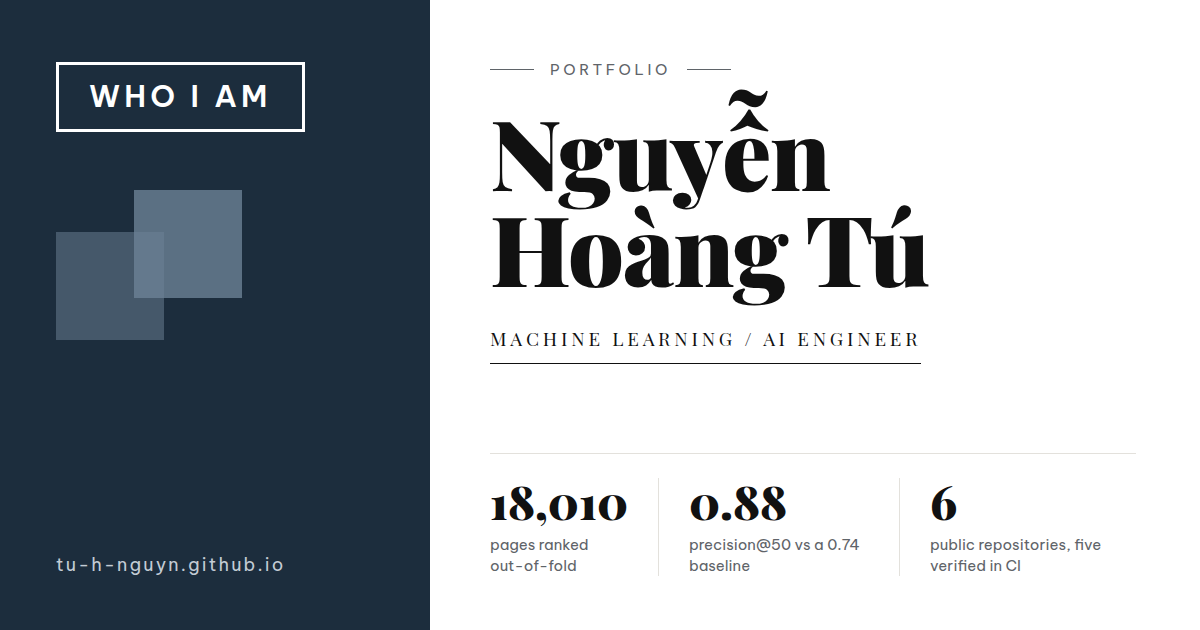
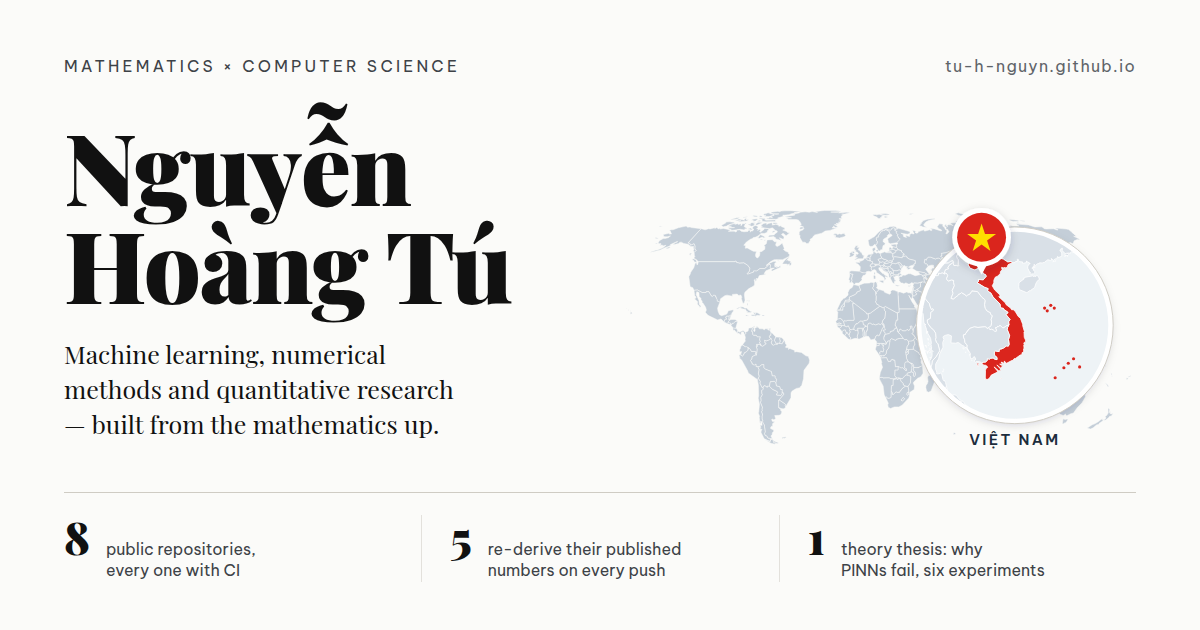
Redraw the share card: portfolio-wide facts and a map of Viet Nam
The card still said "Machine Learning / AI Engineer" and quoted the
ranking metrics. It now carries the site's positioning, three facts
about the whole body of work, and a world map with Viet Nam magnified
under a lens with the flag, drawn from Natural Earth outlines
(public domain, via world-atlas, ISC; an 87 KB extract vendored in
work/portfolio/og-map/). Hoang Sa and Truong Sa are marked as
Vietnamese maps show them.

Claude-Session: https://claude.ai/code/session_01Bir23MNRfpLHK8RkrXDYFN

diff --git a/work/scripts/make_portfolio_og.py b/work/scripts/make_portfolio_og.py
@@ -2,11 +2,18 @@
 """Render docs/portfolio/og.png — the 1200x630 social-share card for the portfolio.
 
 This card is what LinkedIn and Facebook show when the portfolio link is posted, so
-it is the first thing most readers see. It used to be a hand-made file with no
-source, which meant it silently went stale as the page changed. Now it is
-generated, like the paper's card next to it, and drawn in the page's own system:
-the navy panel with the "Who I am" box and the two squares, the name in Playfair
-Display, the label type in Be Vietnam Pro.
+it is the first thing most readers see. It is generated, like the paper's card next
+to it, and drawn in the site's own system: paper ground, ink and navy, the name in
+Playfair Display, three facts about the whole body of work, and a world map with
+Việt Nam picked out under a magnifier.
+
+The map is drawn here from Natural Earth country outlines (public domain), vendored
+as a small extract in work/portfolio/og-map/countries.json: the world at 1:110m, and
+the region around Việt Nam at 1:50m for the magnified view. Hoàng Sa and Trường Sa
+are marked as Vietnamese, as Vietnamese maps show them. To refresh the extract from
+the world-atlas package (npm, which packages Natural Earth as TopoJSON):
+
+    python3 work/scripts/make_portfolio_og.py --vendor-map path/to/world-atlas/package
 
 The fonts are vendored in work/portfolio/fonts/ and embedded into the card, so it
 renders the same with no network — and the script refuses to write the PNG if they
@@ -14,7 +21,10 @@ did not load, rather than quietly shipping a card set in a fallback face.
 
     pip install playwright && python3 work/scripts/make_portfolio_og.py
 """
+import argparse
 import base64
+import json
+import math
 import pathlib
 import re
 import shutil
@@ -23,60 +33,262 @@ import sys
 ROOT = pathlib.Path(__file__).resolve().parents[2]
 OUT = ROOT / "docs" / "portfolio" / "og.png"
 FONTS = ROOT / "work" / "portfolio" / "fonts"
+MAP = ROOT / "work" / "portfolio" / "og-map" / "countries.json"
+
+# The magnified view: everything inside this box, at 1:50m.
+REGION = (96.0, 3.0, 121.0, 27.0)          # lon0, lat0, lon1, lat1 — the lens's field of view
+LAND, LAND_LENS, SEA_LENS, VN_RED, VN_STAR = "#c4ced8", "#d9e0e7", "#eef3f6", "#da251d", "#ffde00"
 
 CARD = """
 <style>
   {fonts}
   *{{box-sizing:border-box; margin:0; padding:0}}
-  body{{width:1200px; height:630px; display:grid; grid-template-columns:430px 1fr;
-       font-family:'Be Vietnam Pro', sans-serif; color:#111; background:#fff;
+  body{{width:1200px; height:630px; padding:56px 64px 48px; display:flex; flex-direction:column;
+       font-family:'Be Vietnam Pro', sans-serif; color:#111; background:#fbfbf9;
        -webkit-font-smoothing:antialiased}}
-
-  .panel{{background:#1c2d3d; color:#fff; padding:62px 56px 54px;
-         display:flex; flex-direction:column}}
-  .who{{align-self:flex-start; border:3px solid #fff; padding:15px 30px 16px;
-       font-weight:600; font-size:30px; letter-spacing:.14em; text-transform:uppercase;
-       line-height:1.1}}
-  .squares{{position:relative; width:190px; height:150px; margin-top:58px}}
-  .squares i{{position:absolute; width:108px; height:108px; background:#6d8397}}
-  .squares i:first-child{{left:0; top:42px; opacity:.5}}
-  .squares i:last-child{{left:78px; top:0; opacity:.78}}
-  .url{{margin-top:auto; font-size:18px; letter-spacing:.12em; color:#c3ccd5}}
-
-  .main{{padding:60px 64px 54px 60px; display:flex; flex-direction:column}}
-  .eyebrow{{display:flex; align-items:center; gap:16px; font-size:15px;
-           letter-spacing:.24em; text-transform:uppercase; color:#5f6469}}
-  .eyebrow::before, .eyebrow::after{{content:""; width:44px; height:1px; background:currentColor}}
-  h1{{font-family:'Playfair Display', serif; font-weight:900; font-size:98px;
-     line-height:.98; letter-spacing:-.015em; margin-top:24px}}
-  .role{{align-self:flex-start; margin-top:30px; padding-bottom:12px;
-        border-bottom:1px solid #111;
-        font-family:'Playfair Display', serif; font-weight:400; font-size:19px;
-        letter-spacing:.2em; text-transform:uppercase}}
-
-  .stats{{margin-top:auto; display:grid; grid-template-columns:repeat(3, auto);
-         justify-content:start; border-top:1px solid #e3e1dc; padding-top:24px}}
-  .stat{{padding:0 30px; border-left:1px solid #e3e1dc}}
+  .top{{display:flex; justify-content:space-between; align-items:center;
+        font-size:16px; letter-spacing:.2em; text-transform:uppercase; color:#3d4247}}
+  .top .url{{letter-spacing:.08em; text-transform:none; color:#5f6469}}
+  .mid{{display:grid; grid-template-columns:500px 1fr; gap:24px; align-items:center; margin-top:26px}}
+  h1{{font-family:'Playfair Display', serif; font-weight:900; font-size:100px;
+     line-height:.98; letter-spacing:-.015em}}
+  .line{{font-family:'Playfair Display', serif; font-weight:400; font-size:25px; line-height:1.4;
+        color:#111; margin-top:24px; max-width:480px; text-wrap:balance}}
+  .map svg{{display:block; width:100%; height:auto}}
+  .stats{{margin-top:auto; display:grid; grid-template-columns:repeat(3, 1fr);
+         border-top:1px solid #cfccc4; padding-top:22px}}
+  .stat{{padding:0 28px; border-left:1px solid #e3e1dc; display:flex; gap:16px; align-items:baseline}}
   .stat:first-child{{padding-left:0; border-left:0}}
-  .n{{font-family:'Playfair Display', serif; font-weight:900; font-size:46px; line-height:1}}
-  .l{{font-size:15px; line-height:1.4; color:#5f6469; margin-top:10px; max-width:180px}}
+  .n{{font-family:'Playfair Display', serif; font-weight:900; font-size:44px; line-height:1}}
+  .l{{font-size:16px; line-height:1.35; color:#3d4247}}
 </style>
-<div class="panel">
-  <p class="who">Who I am</p>
-  <div class="squares"><i></i><i></i></div>
-  <p class="url">tu-h-nguyn.github.io</p>
-</div>
-<div class="main">
-  <p class="eyebrow">Portfolio</p>
-  <h1>Nguy&#7877;n<br>Ho&agrave;ng T&uacute;</h1>
-  <p class="role">Machine Learning / AI Engineer</p>
-  <div class="stats">
-    <div class="stat"><div class="n">18,010</div><div class="l">pages ranked<br>out-of-fold</div></div>
-    <div class="stat"><div class="n">0.88</div><div class="l">precision@50 vs a 0.74 baseline</div></div>
-    <div class="stat"><div class="n">6</div><div class="l">public repositories, five verified in CI</div></div>
+<div class="top"><span>Mathematics &times; Computer Science</span><span class="url">tu-h-nguyn.github.io</span></div>
+<div class="mid">
+  <div>
+    <h1>Nguy&#7877;n<br>Ho&agrave;ng T&uacute;</h1>
+    <p class="line">Machine learning, numerical methods and quantitative research &mdash; built from the mathematics up.</p>
   </div>
+  <div class="map">{map}</div>
+</div>
+<div class="stats">
+  <div class="stat"><div class="n">8</div><div class="l">public repositories,<br>every one with CI</div></div>
+  <div class="stat"><div class="n">5</div><div class="l">re-derive their published<br>numbers on every push</div></div>
+  <div class="stat"><div class="n">1</div><div class="l">theory thesis: why<br>PINNs fail, six experiments</div></div>
 </div>
 """
+
+
+# ── the map ──────────────────────────────────────────────────────────────────
+
+def topo_countries(path):
+    """[(name, [[ring, ...], ...])] from a world-atlas TopoJSON file, rings as (lon, lat)."""
+    t = json.loads(pathlib.Path(path).read_text())
+    (sx, sy), (tx, ty) = t["transform"]["scale"], t["transform"]["translate"]
+    arcs = []
+    for arc in t["arcs"]:
+        x = y = 0
+        pts = []
+        for dx, dy in arc:
+            x += dx
+            y += dy
+            pts.append((x * sx + tx, y * sy + ty))
+        arcs.append(pts)
+
+    def ring(idx):
+        out = []
+        for i in idx:
+            a = arcs[i] if i >= 0 else arcs[~i][::-1]
+            out.extend(a if not out else a[1:])
+        return out
+
+    out = []
+    for g in t["objects"]["countries"]["geometries"]:
+        if g["type"] == "Polygon":
+            polys = [[ring(r) for r in g["arcs"]]]
+        elif g["type"] == "MultiPolygon":
+            polys = [[ring(r) for r in p] for p in g["arcs"]]
+        else:
+            continue
+        out.append((g["properties"]["name"], polys))
+    return out
+
+
+def clip(ring, box):
+    """Sutherland–Hodgman: a ring clipped to an axis-aligned lon/lat box."""
+    x0, y0, x1, y1 = box
+    edges = [(lambda p: p[0] >= x0, lambda a, b: (x0, a[1] + (b[1] - a[1]) * (x0 - a[0]) / (b[0] - a[0]))),
+             (lambda p: p[0] <= x1, lambda a, b: (x1, a[1] + (b[1] - a[1]) * (x1 - a[0]) / (b[0] - a[0]))),
+             (lambda p: p[1] >= y0, lambda a, b: (a[0] + (b[0] - a[0]) * (y0 - a[1]) / (b[1] - a[1]), y0)),
+             (lambda p: p[1] <= y1, lambda a, b: (a[0] + (b[0] - a[0]) * (y1 - a[1]) / (b[1] - a[1]), y1))]
+    pts = ring
+    for inside, cross in edges:
+        if not pts:
+            break
+        src, pts = pts, []
+        for i, cur in enumerate(src):
+            prev = src[i - 1]
+            if inside(cur):
+                if not inside(prev):
+                    pts.append(cross(prev, cur))
+                pts.append(cur)
+            elif inside(prev):
+                pts.append(cross(prev, cur))
+    return pts
+
+
+def simplify(ring, tol):
+    """Douglas–Peucker: drop points that move the outline by less than tol degrees."""
+    if len(ring) < 5:
+        return ring
+    keep = [False] * len(ring)
+    keep[0] = keep[-1] = True
+    stack = [(0, len(ring) - 1)]
+    while stack:
+        i, j = stack.pop()
+        (x1, y1), (x2, y2) = ring[i], ring[j]
+        dx, dy = x2 - x1, y2 - y1
+        norm = math.hypot(dx, dy) or 1e-12
+        best, idx = 0.0, None
+        for k in range(i + 1, j):
+            x, y = ring[k]
+            d = abs(dy * (x - x1) - dx * (y - y1)) / norm if (dx or dy) else math.hypot(x - x1, y - y1)
+            if d > best:
+                best, idx = d, k
+        if idx is not None and best > tol:
+            keep[idx] = True
+            stack += [(i, idx), (idx, j)]
+    return [p for p, k in zip(ring, keep) if k]
+
+
+def vendor_map(src):
+    """Write the compact extract the card is drawn from."""
+    src = pathlib.Path(src)
+    # Tolerances are about half a pixel at the scale each part is drawn: ~1.8 px per
+    # degree for the world, ~9 px per degree inside the lens.
+    rnd = lambda ring, n: [[round(x, n), round(y, n)] for x, y in ring]
+    world = []
+    for name, polys in topo_countries(src / "countries-110m.json"):
+        if name == "Antarctica":
+            continue
+        rings = [[rnd(simplify(r, 0.25), 1) for r in poly] for poly in polys]
+        rings = [[r for r in poly if len(r) > 3] for poly in rings]
+        world.append([name, [poly for poly in rings if poly]])
+    region = []
+    for name, polys in topo_countries(src / "countries-50m.json"):
+        rings = [rnd(simplify(c, 0.04), 2) for poly in polys for c in [clip(poly[0], REGION)] if len(c) > 2]
+        rings = [r for r in rings if len(r) > 3]
+        if rings:
+            region.append([name, rings])
+    MAP.parent.mkdir(parents=True, exist_ok=True)
+    MAP.write_text(json.dumps({
+        "_source": "Natural Earth admin-0 countries (public domain), via world-atlas 2.0.2 "
+                   "(npm, ISC). world: 1:110m without Antarctica, simplified to 0.25 degree; region: "
+                   f"1:50m clipped to lon/lat box {list(REGION)}, simplified to 0.04 degree. "
+                   "Regenerate: make_portfolio_og.py --vendor-map <world-atlas package dir>.",
+        "world": world, "region": region}, separators=(",", ":")), encoding="utf-8")
+    print(f"{MAP.relative_to(ROOT)}  {MAP.stat().st_size // 1024} KB, "
+          f"{len(world)} countries + {len(region)} in the magnified region")
+
+
+def natural_earth(lon, lat):
+    """The Natural Earth projection (Šavrič et al.), in radians-scaled units."""
+    l, p = math.radians(lon), math.radians(lat)
+    p2 = p * p
+    p4 = p2 * p2
+    x = l * (0.8707 - 0.131979 * p2 + p4 * (-0.013791 + p4 * (0.003971 * p2 - 0.001529 * p4)))
+    y = p * (1.007226 + p2 * (0.015085 + p4 * (-0.044475 + 0.028874 * p2 - 0.005916 * p4)))
+    return x, y
+
+
+def unwrap(ring):
+    """A ring that crosses the 180th meridian (Chukotka, Fiji) would draw a line
+    across the whole map; fold its far side onto the meridian instead."""
+    if not any(abs(a[0] - b[0]) > 180 for a, b in zip(ring, ring[1:])):
+        return ring
+    east = sum(1 for x, _ in ring if x > 0) >= len(ring) / 2
+    return [(min(x + 360, 180) if east and x < 0 else max(x - 360, -180) if not east and x > 0 else x, y)
+            for x, y in ring]
+
+
+def path(rings, proj):
+    d = []
+    for r in map(unwrap, rings):
+        pts = [proj(x, y) for x, y in r]
+        d.append("M" + "L".join(f"{x:.1f},{y:.1f}" for x, y in pts) + "Z")
+    return "".join(d)
+
+
+def star(cx, cy, r):
+    pts = []
+    for k in range(10):
+        a = -math.pi / 2 + k * math.pi / 5
+        rr = r if k % 2 == 0 else r * 0.382
+        pts.append(f"{cx + rr * math.cos(a):.1f},{cy + rr * math.sin(a):.1f}")
+    return "M" + "L".join(pts) + "Z"
+
+
+def map_svg():
+    data = json.loads(MAP.read_text(encoding="utf-8"))
+    W, H = 560, 360
+    # world: Natural Earth projection scaled to the width, Antarctica left out
+    xmax = natural_earth(180, 0)[0]
+    ytop, ybot = natural_earth(0, 84)[1], natural_earth(0, -57)[1]
+    k = (W - 4) / (2 * xmax)
+    oy = H - 8 - (ytop - ybot) * k
+
+    def world(lon, lat):
+        x, y = natural_earth(lon, lat)
+        return 2 + (x + xmax) * k, oy + (ytop - y) * k
+
+    parts = [f'<svg viewBox="0 0 {W} {H}" xmlns="http://www.w3.org/2000/svg" role="img" '
+             f'aria-label="World map with Việt Nam highlighted and magnified">',
+             '<defs><filter id="sh" x="-20%" y="-20%" width="140%" height="140%">'
+             '<feDropShadow dx="0" dy="3" stdDeviation="5" flood-color="#1c2d3d" flood-opacity=".18"/></filter>'
+             '<clipPath id="lens"><circle cx="0" cy="0" r="1"/></clipPath></defs>']
+    for name, polys in data["world"]:
+        fill = VN_RED if name == "Vietnam" else LAND
+        d = "".join(path(poly, world) for poly in polys)
+        parts.append(f'<path d="{d}" fill="{fill}" stroke="#fbfbf9" stroke-width=".5" fill-rule="evenodd"/>')
+
+    # the magnifier: centred over Việt Nam itself, as a loupe laid on the map
+    vx, vy = world(106.3, 16.0)
+    R = 98
+    cx, cy = min(vx - 6, W - R - 6), max(vy + 6, R + 44)
+    # inside the lens: the region at 1:50m, equirectangular about its centre
+    lon_c, lat_c = 108.2, 14.6
+    s = R / 10.6                                   # pixels per degree of latitude
+    cosl = math.cos(math.radians(lat_c))
+
+    def local(lon, lat):
+        return cx + (lon - lon_c) * s * cosl, cy - (lat - lat_c) * s
+
+    parts.append(f'<g filter="url(#sh)"><circle cx="{cx:.1f}" cy="{cy:.1f}" r="{R}" fill="{SEA_LENS}"/></g>')
+    parts.append(f'<clipPath id="lc"><circle cx="{cx:.1f}" cy="{cy:.1f}" r="{R - 1}"/></clipPath><g clip-path="url(#lc)">')
+    for name, rings in data["region"]:
+        fill = VN_RED if name == "Vietnam" else LAND_LENS
+        parts.append(f'<path d="{path(rings, local)}" fill="{fill}" stroke="#ffffff" stroke-width=".8" stroke-linejoin="round"/>')
+    # Hoàng Sa and Trường Sa, as Vietnamese maps show them
+    for lon, lat in [(111.6, 16.5), (112.3, 16.8), (111.9, 16.2), (112.7, 16.5),
+                     (114.3, 10.4), (113.8, 9.9), (114.9, 10.9), (112.8, 8.8), (115.6, 10.0)]:
+        x, y = local(lon, lat)
+        parts.append(f'<circle cx="{x:.1f}" cy="{y:.1f}" r="1.6" fill="{VN_RED}"/>')
+    parts.append("</g>")
+    parts.append(f'<circle cx="{cx:.1f}" cy="{cy:.1f}" r="{R}" fill="none" stroke="#ffffff" stroke-width="5"/>')
+    parts.append(f'<circle cx="{cx:.1f}" cy="{cy:.1f}" r="{R + 2.5}" fill="none" stroke="#cfccc4" stroke-width="1"/>')
+
+    # the pin: the flag in a white ring, pointing into the lens
+    px, py, pr = cx - 34, cy - R + 8, 25
+    parts.append(f'<g filter="url(#sh)"><path d="M{px - 9:.1f},{py + pr - 3:.1f}L{px:.1f},{py + pr + 13:.1f}'
+                 f'L{px + 9:.1f},{py + pr - 3:.1f}Z" fill="#ffffff"/>'
+                 f'<circle cx="{px:.1f}" cy="{py:.1f}" r="{pr + 5}" fill="#ffffff"/></g>')
+    parts.append(f'<circle cx="{px:.1f}" cy="{py:.1f}" r="{pr}" fill="{VN_RED}"/>')
+    parts.append(f'<path d="{star(px, py + 1.5, pr * 0.62)}" fill="{VN_STAR}"/>')
+
+    # the caption, under the lens
+    parts.append(f'<text x="{cx:.1f}" y="{cy + R + 24:.1f}" text-anchor="middle" font-family="Be Vietnam Pro" '
+                 f'font-weight="600" font-size="15" letter-spacing="2.4" fill="#1c2d3d">VIỆT NAM</text>')
+    parts.append("</svg>")
+    return "".join(parts)
 
 
 def font_css():
@@ -100,12 +312,18 @@ def chromium():
 
 
 def main():
+    ap = argparse.ArgumentParser()
+    ap.add_argument("--vendor-map", metavar="DIR", help="refresh the map extract from a world-atlas package directory")
+    args = ap.parse_args()
+    if args.vendor_map:
+        vendor_map(args.vendor_map)
+
     try:
         from playwright.sync_api import sync_playwright
     except ImportError:
         sys.exit("playwright is not installed — pip install playwright")
 
-    html = CARD.format(fonts=font_css())
+    html = CARD.format(fonts=font_css(), map=map_svg())
 
     with sync_playwright() as pw:
         exe = chromium()
@@ -118,10 +336,10 @@ def main():
         # A share card in a fallback face is worse than no new card at all. Check the
         # exact glyphs that matter — the Vietnamese marks in the name included.
         missing = page.evaluate("""() => [
-            ["900 98px 'Playfair Display'", "Nguyễn Hoàng Tú 18,010 0.88"],
-            ["400 19px 'Playfair Display'", "MACHINE LEARNING / AI ENGINEER"],
-            ["400 15px 'Be Vietnam Pro'", "pages ranked out-of-fold tu-h-nguyn.github.io"],
-            ["600 30px 'Be Vietnam Pro'", "WHO I AM"],
+            ["900 104px 'Playfair Display'", "Nguyễn Hoàng Tú 8 5 1"],
+            ["400 26px 'Playfair Display'", "Machine learning, numerical methods and quantitative research — built from the mathematics up."],
+            ["400 16px 'Be Vietnam Pro'", "MATHEMATICS × COMPUTER SCIENCE tu-h-nguyn.github.io public repositories, every one with CI"],
+            ["600 15px 'Be Vietnam Pro'", "VIỆT NAM"],
         ].filter(([font, text]) => !document.fonts.check(font, text)).map(([f]) => f)""")
         # check() also answers true when no face matches at all, so separately require
         # that both families really loaded.
